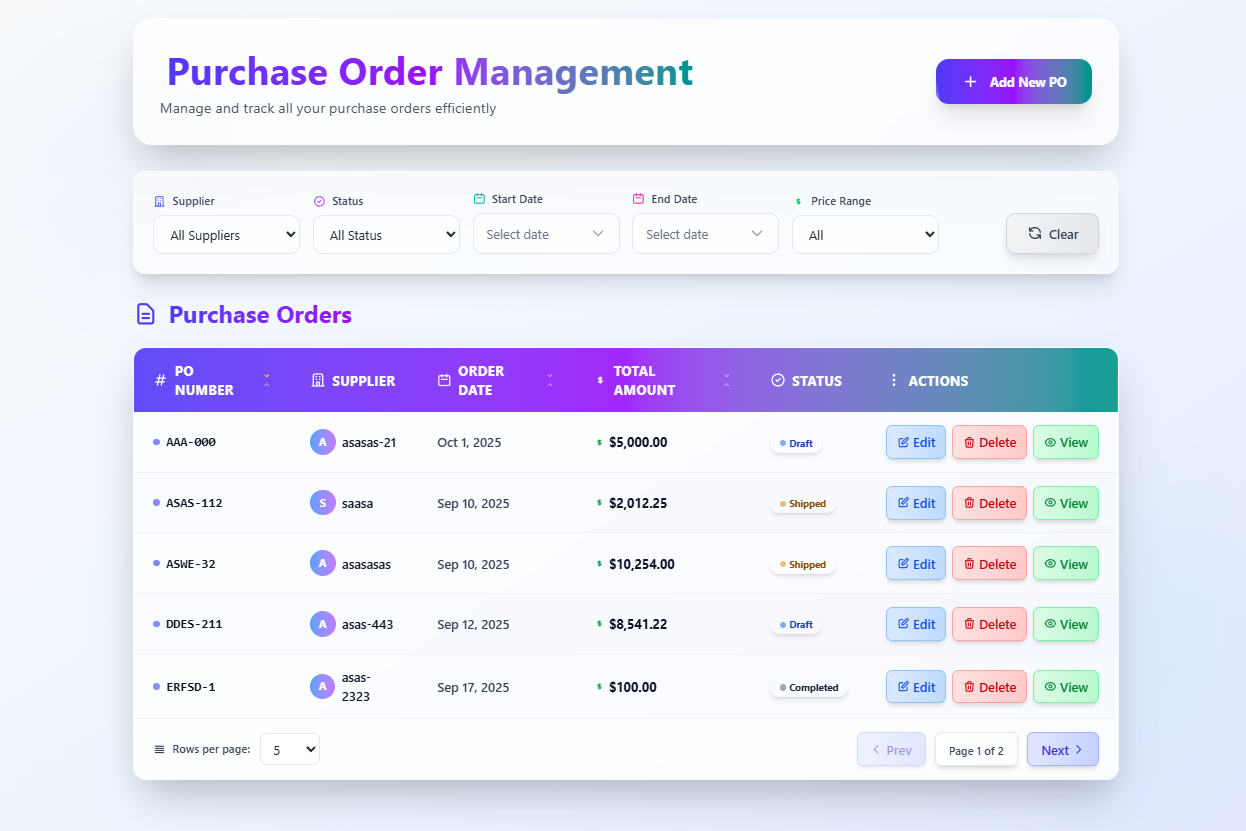
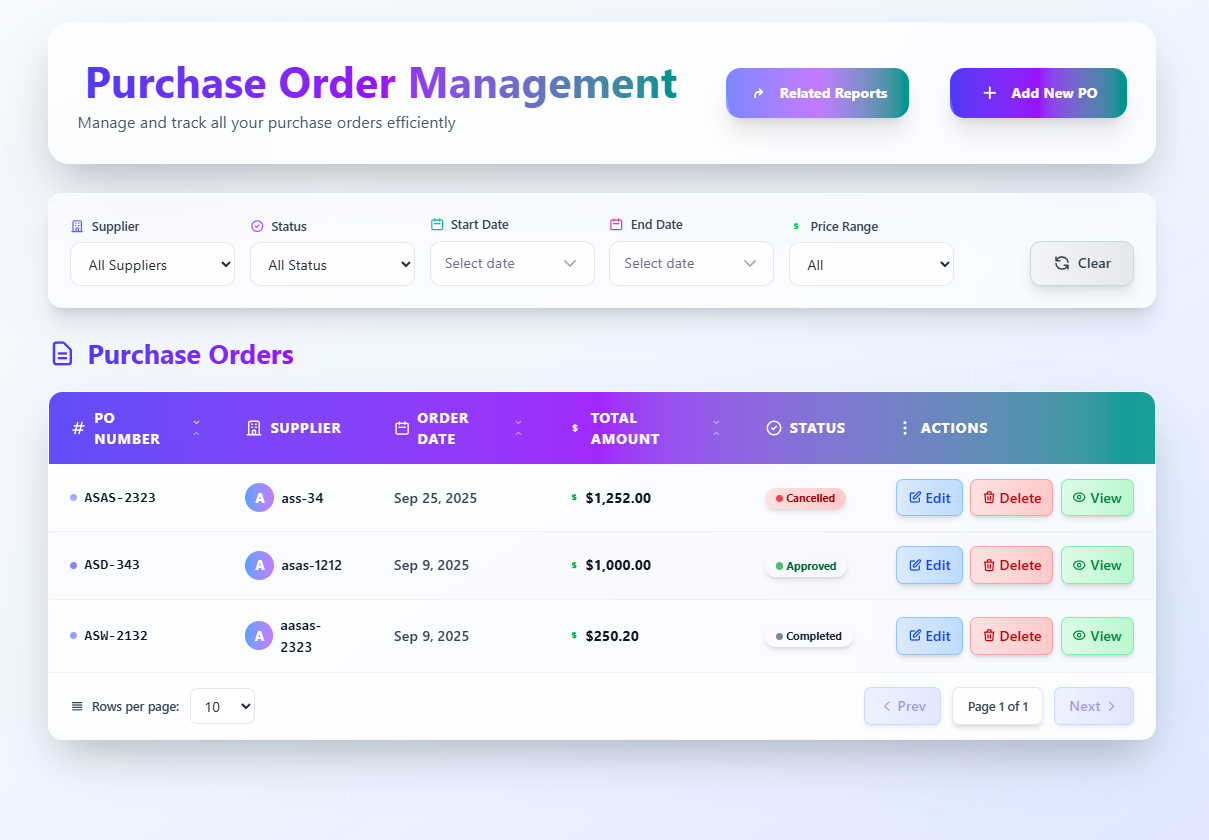
add chart reports

diff --git a/frontend/purchase-order/src/app/component/reports/reports.component.ts b/frontend/purchase-order/src/app/component/reports/reports.component.ts
@@ -1,7 +1,9 @@
 import { Component, OnInit } from '@angular/core';
 import { PurchaseOrderService } from '../../service/purchase-order-service';
-import { PurchaseOrder } from '../../model/purchase-order.model';
+import { PurchaseOrder, PurchaseOrderStatus, PURCHASE_ORDER_STATUS_OPTIONS } from '../../model/purchase-order.model';
 import { CommonModule, DatePipe, CurrencyPipe, NgClass } from '@angular/common';
+import { BaseChartDirective } from 'ng2-charts';
+import { ChartConfiguration, ChartType } from 'chart.js';
 
 @Component({
   selector: 'app-reports',
@@ -14,6 +16,74 @@ import { CommonModule, DatePipe, CurrencyPipe, NgClass } from '@angular/common';
           </h1>
           <p class="text-gray-600 text-lg">Summary of all purchase orders</p>
         </div>
+        <!-- Chart Section -->
+        <div class="bg-white/80 rounded-2xl shadow-xl p-6 mb-8 border border-white/30">
+          <h2 class="text-2xl font-semibold mb-4 text-indigo-700">Total Amount by Status</h2>
+          <canvas baseChart
+            [data]="barChartData"
+            [options]="barChartOptions"
+            [type]="barChartType"
+            [labels]="barChartLabels"
+            class="w-full max-w-2xl mx-auto h-96"
+          ></canvas>
+        </div>
+        <!-- Summary Section -->
+        <div class="bg-white/80 rounded-2xl shadow-xl p-8 mb-8 border border-white/30">
+          <h2 class="text-2xl font-bold mb-6 text-indigo-700 flex items-center gap-2">
+            <svg class="w-7 h-7 text-indigo-500" fill="none" stroke="currentColor" stroke-width="2" viewBox="0 0 24 24"><path stroke-linecap="round" stroke-linejoin="round" d="M9 17v-2a2 2 0 012-2h2a2 2 0 012 2v2m-6 4h6a2 2 0 002-2v-5a2 2 0 00-2-2h-1V7a5 5 0 00-10 0v5H5a2 2 0 00-2 2v5a2 2 0 002 2z"/></svg>
+            Summary
+          </h2>
+          <div class="grid grid-cols-1 sm:grid-cols-2 md:grid-cols-4 gap-6">
+            <!-- Total Orders Card -->
+            <div class="flex flex-col items-center bg-gradient-to-br from-indigo-100 via-blue-50 to-white rounded-xl shadow p-6 border border-indigo-100">
+              <div class="bg-indigo-500/10 rounded-full p-3 mb-2">
+                <svg class="w-8 h-8 text-indigo-600" fill="none" stroke="currentColor" stroke-width="2" viewBox="0 0 24 24"><path stroke-linecap="round" stroke-linejoin="round" d="M3 7v10a2 2 0 002 2h14a2 2 0 002-2V7"/><path stroke-linecap="round" stroke-linejoin="round" d="M16 3H8a2 2 0 00-2 2v2h12V5a2 2 0 00-2-2z"/></svg>
+              </div>
+              <div class="text-4xl font-extrabold text-indigo-700">{{ purchaseOrders.length }}</div>
+              <div class="text-gray-500 mt-1 font-medium">Total Orders</div>
+            </div>
+            <!-- Total Amount Card -->
+            <div class="flex flex-col items-center bg-gradient-to-br from-green-100 via-teal-50 to-white rounded-xl shadow p-6 border border-green-100">
+              <div class="bg-green-500/10 rounded-full p-3 mb-2">
+                <svg class="w-8 h-8 text-green-600" fill="none" stroke="currentColor" stroke-width="2" viewBox="0 0 24 24"><path stroke-linecap="round" stroke-linejoin="round" d="M12 8c-1.657 0-3 1.343-3 3s1.343 3 3 3 3-1.343 3-3-1.343-3-3-3zm0 0V4m0 10v4m8-8a8 8 0 11-16 0 8 8 0 0116 0z"/></svg>
+              </div>
+              <div class="text-4xl font-extrabold text-green-700">{{ totalAmount | currency }}</div>
+              <div class="text-gray-500 mt-1 font-medium">Total Amount</div>
+            </div>
+            <!-- Status Cards -->
+            <ng-container *ngFor="let status of statusOptions">
+              <div class="flex flex-col items-center rounded-xl shadow p-6 border"
+                [ngClass]="{
+                  'bg-gradient-to-br from-blue-100 via-blue-50 to-white border-blue-100': status === 'Draft',
+                  'bg-gradient-to-br from-green-100l via-green-50 to-white border-green-100': status === 'Approved',
+                  'bg-gradient-to-br from-yellow-100 via-yellow-50 to-white border-yellow-100': status === 'Shipped',
+                  'bg-gradient-to-br from-gray-100 via-gray-50 to-white border-gray-100': status === 'Completed',
+                  'bg-gradient-to-br from-red-100 via-red-50 to-white border-red-100': status === 'Cancelled'
+                }">
+                <div class="rounded-full p-3 mb-2"
+                  [ngClass]="{
+                    'bg-blue-500/10': status === 'Draft',
+                    'bg-green-500/10': status === 'Approved',
+                    'bg-yellow-500/10': status === 'Shipped',
+                    'bg-gray-500/10': status === 'Completed',
+                    'bg-red-500/10': status === 'Cancelled'
+                  }">
+                  <ng-container [ngSwitch]="status">
+                    <svg *ngSwitchCase="'Draft'" class="w-8 h-8 text-blue-600" fill="none" stroke="currentColor" stroke-width="2" viewBox="0 0 24 24"><path stroke-linecap="round" stroke-linejoin="round" d="M12 20h9"/><path stroke-linecap="round" stroke-linejoin="round" d="M16.5 3.5a2.121 2.121 0 113 3L7 19.5 3 21l1.5-4L16.5 3.5z"/></svg>
+                    <svg *ngSwitchCase="'Approved'" class="w-8 h-8 text-green-600" fill="none" stroke="currentColor" stroke-width="2" viewBox="0 0 24 24"><path stroke-linecap="round" stroke-linejoin="round" d="M5 13l4 4L19 7"/></svg>
+                    <svg *ngSwitchCase="'Shipped'" class="w-8 h-8 text-yellow-600" fill="none" stroke="currentColor" stroke-width="2" viewBox="0 0 24 24"><path stroke-linecap="round" stroke-linejoin="round" d="M3 10h1l2 9a2 2 0 002 2h8a2 2 0 002-2l2-9h1"/><circle cx="7.5" cy="19.5" r="1.5"/><circle cx="16.5" cy="19.5" r="1.5"/></svg>
+                    <svg *ngSwitchCase="'Completed'" class="w-8 h-8 text-gray-600" fill="none" stroke="currentColor" stroke-width="2" viewBox="0 0 24 24"><path stroke-linecap="round" stroke-linejoin="round" d="M5 13l4 4L19 7"/></svg>
+                    <svg *ngSwitchCase="'Cancelled'" class="w-8 h-8 text-red-600" fill="none" stroke="currentColor" stroke-width="2" viewBox="0 0 24 24"><path stroke-linecap="round" stroke-linejoin="round" d="M6 18L18 6M6 6l12 12"/></svg>
+                  </ng-container>
+                </div>
+                <div class="text-3xl font-extrabold" [ngClass]="statusColorClass(status)">{{ countByStatus[status] || 0 }}</div>
+                <div class="text-gray-500 mt-1 font-medium">{{ status }}</div>
+              </div>
+            </ng-container>
+        <!-- End of Summary Section -->
+          </div>
+        </div>
+        <!-- Table Section -->
         <div class="bg-white/60 backdrop-blur-xl rounded-2xl shadow-2xl border border-white/30 overflow-hidden">
           <div class="overflow-x-auto">
             <table class="min-w-full">
@@ -76,18 +146,56 @@ import { CommonModule, DatePipe, CurrencyPipe, NgClass } from '@angular/common';
   `,
   styles: [],
   standalone: true,
-  imports: [CommonModule, DatePipe, CurrencyPipe],
+  imports: [CommonModule, DatePipe, CurrencyPipe, BaseChartDirective],
 })
 export class ReportsComponent implements OnInit {
   purchaseOrders: PurchaseOrder[] = [];
   loading = false;
+  totalAmount = 0;
+  countByStatus: { [key in PurchaseOrderStatus]?: number } = {};
+  statusOptions = PURCHASE_ORDER_STATUS_OPTIONS;
+
+  // Chart.js
+  barChartLabels: string[] = this.statusOptions;
+  barChartData: ChartConfiguration['data'] = {
+    labels: this.barChartLabels,
+    datasets: [
+      {
+        data: [],
+        label: 'Total Amount',
+        backgroundColor: [
+          '#3b82f6', // Draft
+          '#22c55e', // Approved
+          '#eab308', // Shipped
+          '#64748b', // Completed
+          '#ef4444', // Cancelled
+        ],
+      },
+    ],
+  };
+  barChartType: ChartType = 'bar';
+  barChartOptions: ChartConfiguration['options'] = {
+    responsive: true,
+    plugins: {
+      legend: { display: false },
+      title: { display: false },
+    },
+    scales: {
+      x: {},
+      y: { beginAtZero: true },
+    },
+  };
+
   constructor(private purchaseOrderService: PurchaseOrderService) {}
+
   ngOnInit() {
     this.loading = true;
     this.purchaseOrderService.fetchAll().subscribe({
       next: (res) => {
         if (res.success) {
           this.purchaseOrders = res.data;
+          this.calculateSummary();
+          this.updateChart();
         }
         this.loading = false;
       },
@@ -95,5 +203,48 @@ export class ReportsComponent implements OnInit {
         this.loading = false;
       },
     });
+  }
+
+  calculateSummary() {
+    this.totalAmount = this.purchaseOrders.reduce((sum, po) => sum + po.totalAmount, 0);
+    this.countByStatus = {};
+    for (const status of this.statusOptions) {
+      this.countByStatus[status] = this.purchaseOrders.filter(po => po.status === status).length;
+    }
+  }
+
+  updateChart() {
+    const data = this.statusOptions.map(status => {
+      return this.purchaseOrders
+        .filter(po => po.status === status)
+        .reduce((sum, po) => sum + po.totalAmount, 0);
+    });
+    this.barChartData = {
+      labels: this.barChartLabels,
+      datasets: [
+        {
+          data,
+          label: 'Total Amount',
+          backgroundColor: [
+            '#3b82f6', // Draft
+            '#22c55e', // Approved
+            '#eab308', // Shipped
+            '#64748b', // Completed
+            '#ef4444', // Cancelled
+          ],
+        },
+      ],
+    };
+  }
+
+  statusColorClass(status: PurchaseOrderStatus) {
+    switch (status) {
+      case 'Draft': return 'text-blue-600';
+      case 'Approved': return 'text-green-600';
+      case 'Shipped': return 'text-yellow-600';
+      case 'Completed': return 'text-gray-600';
+      case 'Cancelled': return 'text-red-600';
+      default: return '';
+    }
   }
 }

diff --git a/frontend/purchase-order/src/app/app.config.ts b/frontend/purchase-order/src/app/app.config.ts
@@ -1,4 +1,5 @@
 import { ApplicationConfig, provideBrowserGlobalErrorListeners, provideZoneChangeDetection } from '@angular/core';
+import { provideCharts, withDefaultRegisterables } from 'ng2-charts';
 import { provideRouter } from '@angular/router';
 
 import { routes } from './app.routes';
@@ -9,6 +10,7 @@ export const appConfig: ApplicationConfig = {
     provideHttpClient(),
     provideBrowserGlobalErrorListeners(),
     provideZoneChangeDetection({ eventCoalescing: true }),
-    provideRouter(routes)
+    provideRouter(routes),
+    provideCharts(withDefaultRegisterables())
   ]
 };

diff --git a/backend/PurchaseOrderManagement.Infrastructure/Migrations/20250914090704_InitialCreate.Designer.cs b/backend/PurchaseOrderManagement.Infrastructure/Migrations/20250914090704_InitialCreate.Designer.cs
@@ -12,7 +12,7 @@ using PurchaseOrderManagement.Infrastructure.Persistence;
 namespace PurchaseOrderManagement.Infrastructure.Migrations
 {
     [DbContext(typeof(AppDbContext))]
-    [Migration("20250911071351_InitialCreate")]
+    [Migration("20250914090704_InitialCreate")]
     partial class InitialCreate
     {
         /// <inheritdoc />
